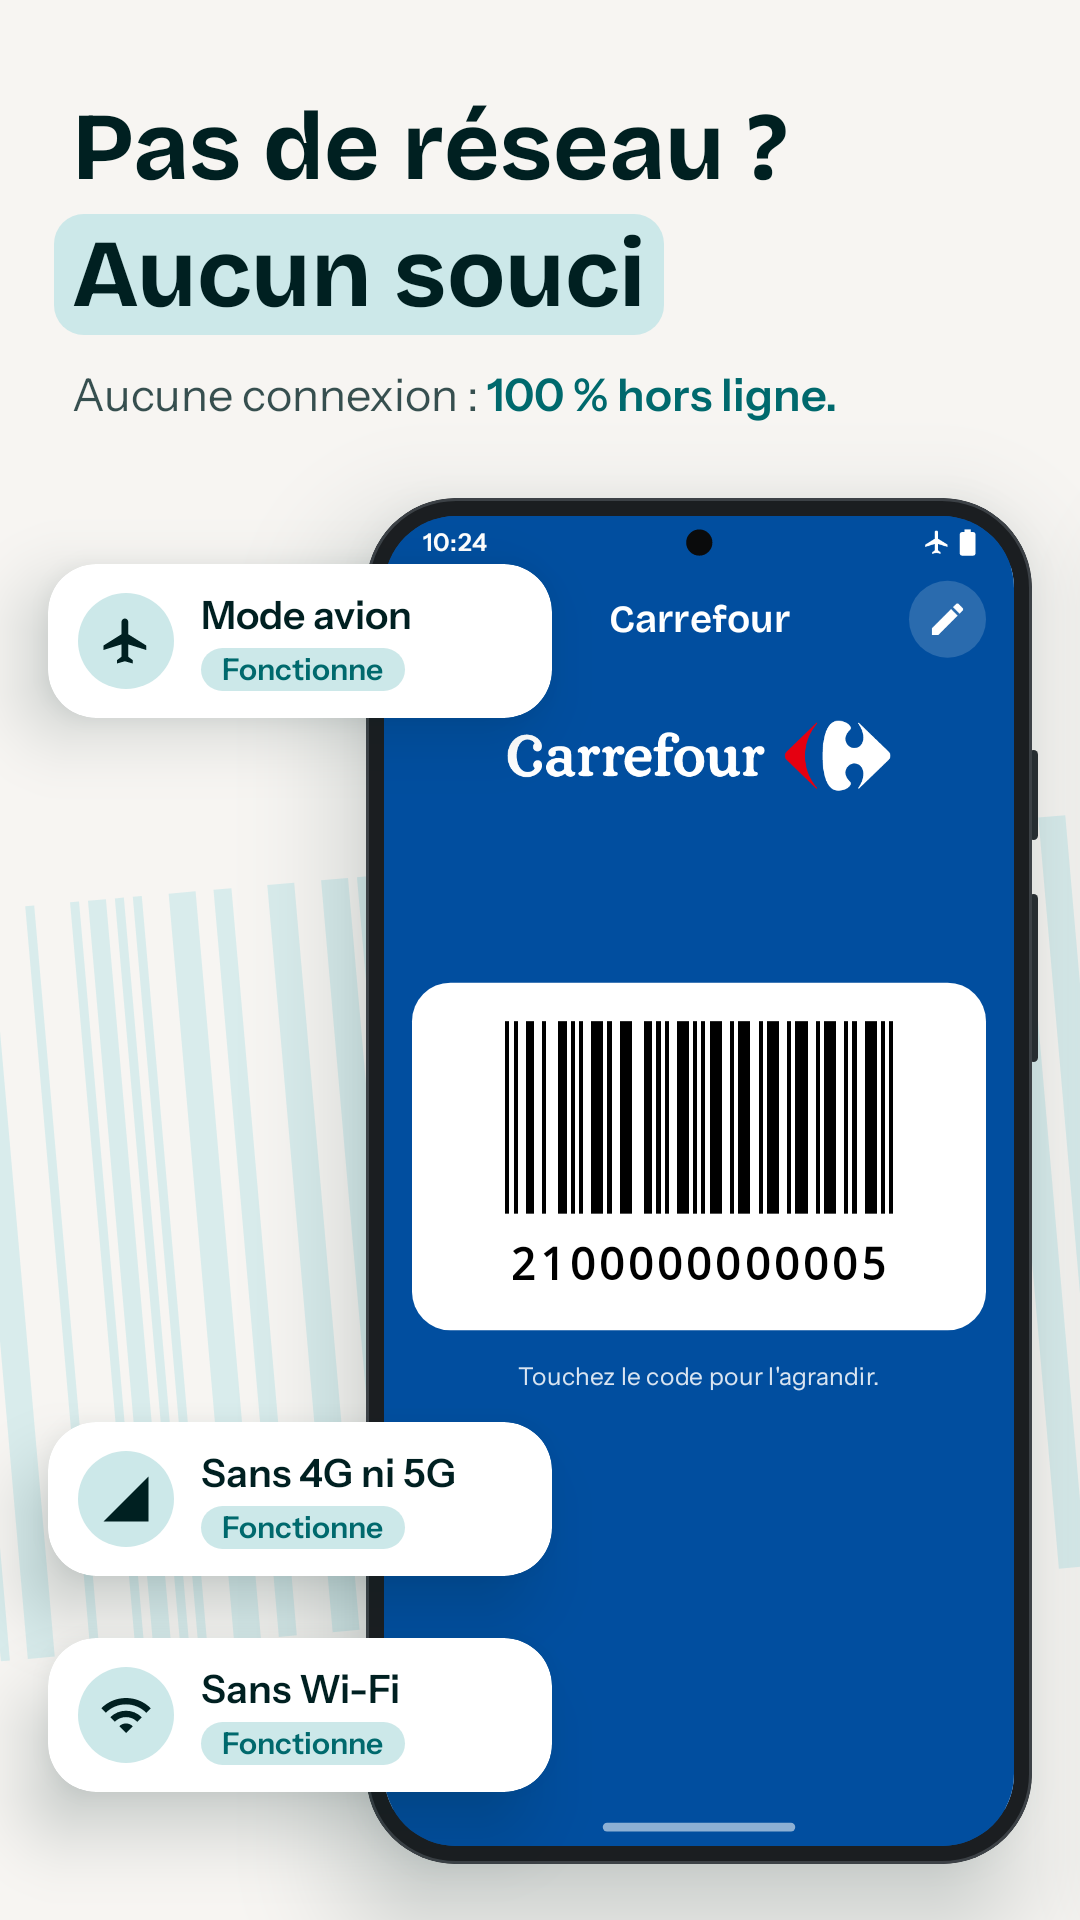
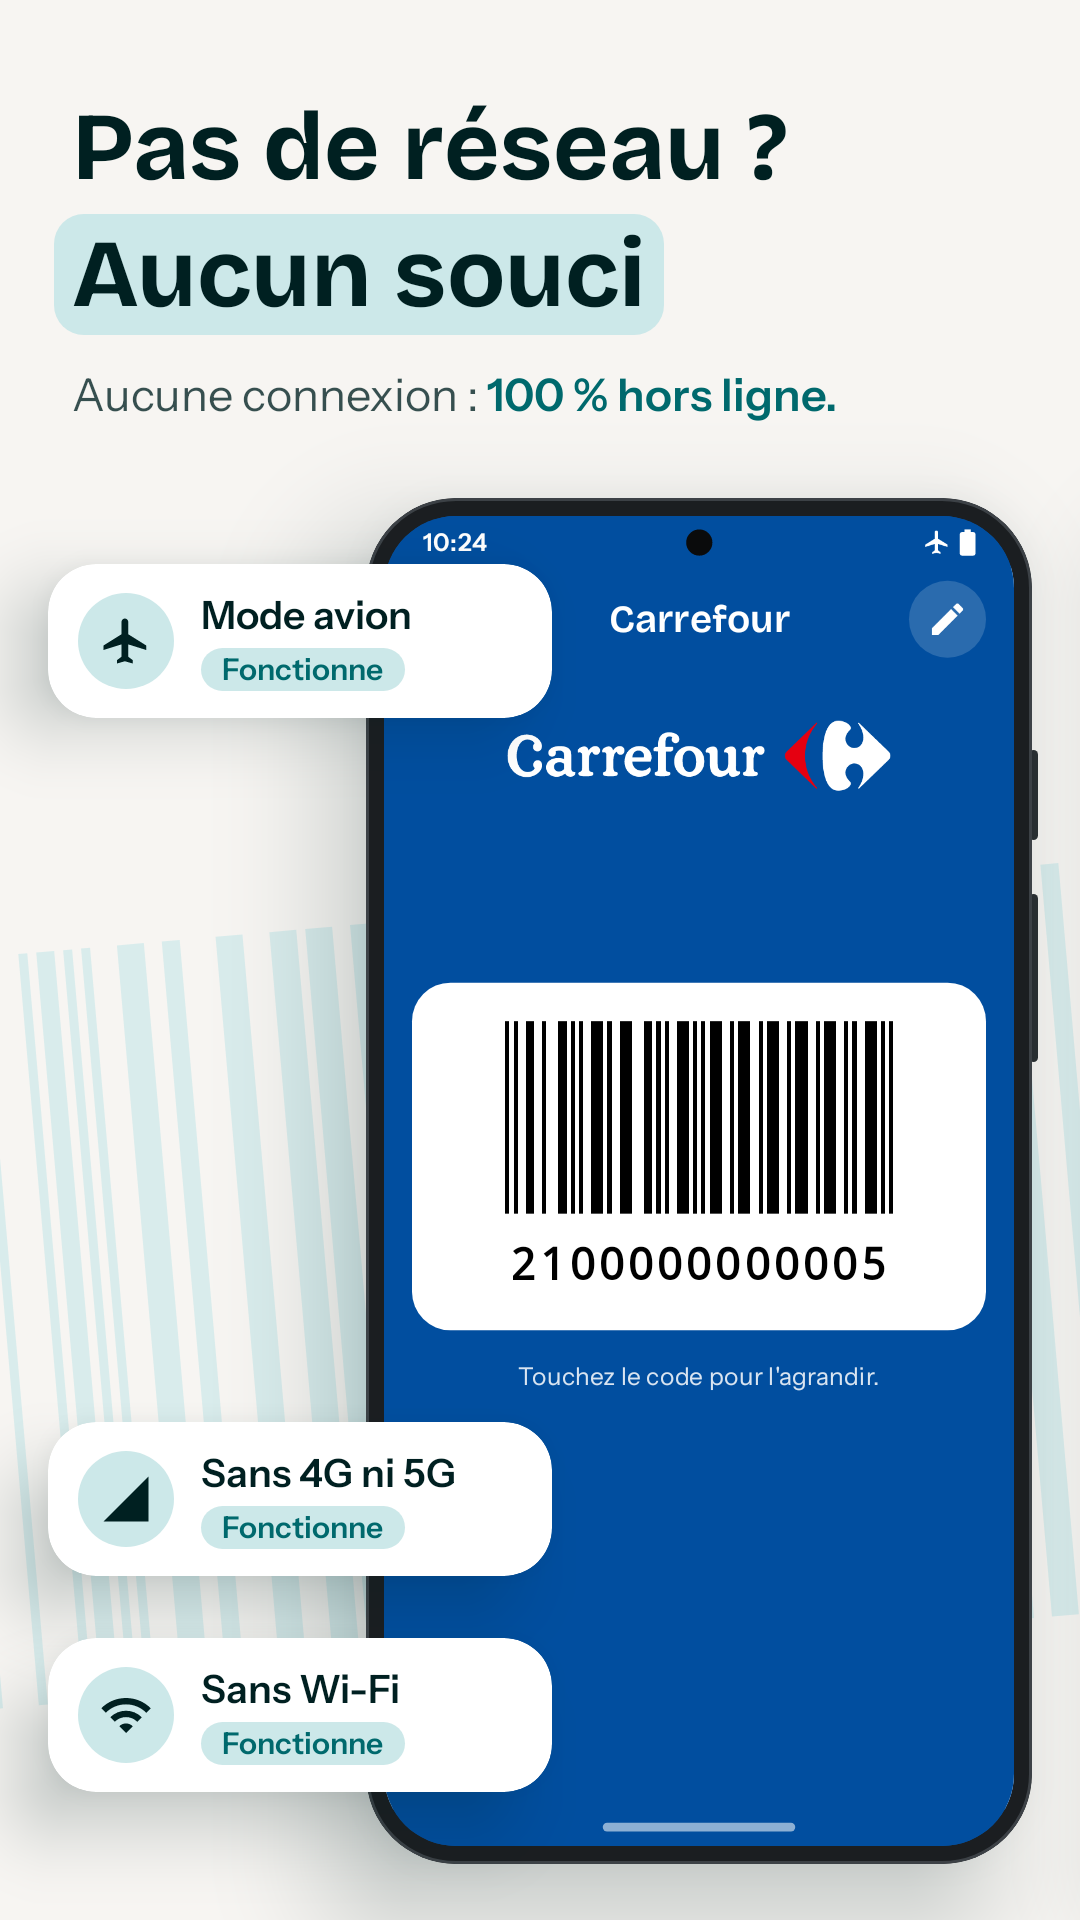
Fiche Play : cinq captures, une par écran (plein écran, carte, liste, ajout, réglages)
Plus de doublon clair/sombre : code QR en plein écran, carte en mode avion,
liste, formulaire d'ajout rempli après un scan, réglages défilés sur la
sauvegarde. « À propos » ne parle plus des cartes « du foyer ».

Changed region(s): [[0.0, 0.4375, 0.3361, 0.7812], [0.9472, 0.4062, 1.0, 0.8438], [0.0, 0.8125, 0.3056, 0.9062]]

diff --git a/app/src/test/kotlin/com/monselio/fidcards/ui/VisuelsPlayStore.kt b/app/src/test/kotlin/com/monselio/fidcards/ui/VisuelsPlayStore.kt
@@ -3,6 +3,16 @@ package com.monselio.fidcards.ui
 import android.graphics.Bitmap
 import android.graphics.BitmapFactory
 import android.graphics.Canvas
+import androidx.compose.ui.semantics.SemanticsActions
+import androidx.compose.ui.test.hasScrollAction
+import androidx.compose.ui.test.performSemanticsAction
+import androidx.compose.ui.test.hasSetTextAction
+import androidx.compose.ui.test.performTextInput
+import androidx.compose.material.icons.filled.ShoppingCart
+import androidx.compose.ui.test.hasClickAction
+import androidx.compose.ui.test.performClick
+import com.monselio.fidcards.ui.edit.EditCardScreen
+import com.monselio.fidcards.ui.settings.SettingsScreen
 import androidx.compose.foundation.border
 import androidx.compose.foundation.layout.fillMaxWidth
 import androidx.compose.foundation.layout.height
@@ -132,8 +142,9 @@ class VisuelsPlayStore {
                 repository.insert(
                     Card(
                         name = brand.name,
-                        barcodeValue = DebugSeed.ean13("2" + (10000000000 + i * 7919L)),
-                        barcodeFormat = BarcodeFormat.EAN_13,
+                        // Decathlon en QR : un code carré reste lisible en plein écran sans pivoter.
+                        barcodeValue = if (id == "decathlon") "2090001234567" else DebugSeed.ean13("2" + (10000000000 + i * 7919L)),
+                        barcodeFormat = if (id == "decathlon") BarcodeFormat.QR_CODE else BarcodeFormat.EAN_13,
                         brandId = brand.id,
                         createdAt = 0,
                         score = (ids.size - i).toDouble(),
@@ -154,12 +165,13 @@ class VisuelsPlayStore {
     }
 
     /**
-     * Captures de la fiche en panorama : une seule image de 4 × 360 dp (4320 × 1920 px),
+     * Captures de la fiche en panorama : une seule image de 5 × 360 dp (5400 × 1920 px),
      * fond continu (seul le code-barres en filigrane passe d'une capture à l'autre), découpée en
-     * quatre captures 1080 × 1920 : chacune contient entière son titre, son téléphone et ses encarts.
+     * cinq captures 1080 × 1920, une par écran de l'app : chacune contient entière son titre,
+     * son téléphone et ses encarts.
      */
     @Test
-    @Config(qualifiers = "w1440dp-h640dp-xxhdpi")
+    @Config(qualifiers = "w1800dp-h640dp-xxhdpi")
     fun captures_panorama() {
         val parId = runBlocking { app.container.cardRepository.getAll() }.associateBy { it.brandId }
         compose.setContent {
@@ -169,6 +181,40 @@ class VisuelsPlayStore {
                     Diapositive(d, parId, Modifier.offset(x = (i * 360).dp).size(360.dp, 640.dp))
                 }
             }
+        }
+        // Plein écran : toucher le cartouche du code, comme l'utilisateur (le réglage
+        // d'agrandissement automatique vaudrait pour toutes les captures à la fois).
+        compose.waitForIdle()
+        DIAPOS.forEachIndexed { i, d ->
+            if (d.ecran != Ecran.PLEIN_ECRAN) return@forEachIndexed
+            val noeuds = compose.onAllNodes(hasClickAction())
+            val liste = noeuds.fetchSemanticsNodes()
+            val largeurDiapo = 360 * app.resources.displayMetrics.density
+            val cartouche = liste.indices
+                .filter { liste[it].boundsInRoot.left >= i * largeurDiapo && liste[it].boundsInRoot.right <= (i + 1) * largeurDiapo }
+                .maxBy { liste[it].boundsInRoot.width }
+            noeuds[cartouche].performClick()
+        }
+        // Formulaire : l'enseigne saisie, comme après le choix dans l'autocomplétion.
+        DIAPOS.indexOfFirst { it.ecran == Ecran.AJOUT }.let { i ->
+            val champs = compose.onAllNodes(hasSetTextAction())
+            val liste = champs.fetchSemanticsNodes()
+            val largeurDiapo = 360 * app.resources.displayMetrics.density
+            val nom = liste.indices
+                .filter { liste[it].boundsInRoot.left >= i * largeurDiapo && liste[it].boundsInRoot.right <= (i + 1) * largeurDiapo }
+                .minBy { liste[it].boundsInRoot.top }
+            champs[nom].performTextInput("Sephora")
+        }
+        // Réglages : la section Sauvegarde entière à l'écran.
+        // (performScrollTo ne défile pas : l'écran réduit par graphicsLayer paraît déjà visible.)
+        compose.onAllNodes(hasScrollAction()).let { defilables ->
+            val i = DIAPOS.indexOfFirst { it.ecran == Ecran.REGLAGES }
+            val largeurDiapo = 360 * app.resources.displayMetrics.density
+            val liste = defilables.fetchSemanticsNodes()
+            val reglages = liste.indices.single { liste[it].boundsInRoot.left >= i * largeurDiapo }
+            // Tout en bas, puis remonter d'« À propos » : la version du build debug reste hors champ.
+            defilables[reglages].performSemanticsAction(SemanticsActions.ScrollBy) { it(0f, 2000f) }
+            defilables[reglages].performSemanticsAction(SemanticsActions.ScrollBy) { it(0f, -480f) }
         }
         val panorama = File(dir, "panorama.png")
         capturer(panorama.nameWithoutExtension)
@@ -239,8 +285,7 @@ class VisuelsPlayStore {
             Telephone(d, parId, Modifier.offset(x = xTelephone.dp, y = HAUT_TELEPHONE.dp))
             val xEncarts = if (d.telephoneAGauche) 360 - MARGE - LARGEUR_ENCART else MARGE
             // Sur l'écran carte, les encarts laissent le code-barres dégagé.
-            val ys = if (d.carte == null) listOf(232, 312, 392) else listOf(188, 474, 546)
-            d.encarts.zip(ys).forEach { (e, y) -> Encart(e, d.accent, Modifier.offset(x = xEncarts.dp, y = y.dp)) }
+            d.encarts.zip(d.ys).forEach { (e, y) -> Encart(e, d.accent, Modifier.offset(x = xEncarts.dp, y = y.dp)) }
         }
     }
 
@@ -284,18 +329,29 @@ class VisuelsPlayStore {
                                 transformOrigin = TransformOrigin(0f, 0f)
                             },
                     ) {
-                        FidCardsTheme(darkTheme = d.sombre) {
-                            val fond = d.carte?.let { Color(requireNotNull(catalog.byId(it)?.colorArgb)) }
-                                ?: MaterialTheme.colorScheme.background
+                        FidCardsTheme(darkTheme = false) {
+                            val fond = when (d.ecran) {
+                                Ecran.CARTE -> Color(requireNotNull(catalog.byId(requireNotNull(d.carte))?.colorArgb))
+                                Ecran.PLEIN_ECRAN -> Color.White
+                                else -> MaterialTheme.colorScheme.background
+                            }
                             val encre = if (fond.luminance() > 0.5f) Color(0xFF1F1E1B) else Color.White
                             // Les barres recouvrent l'écran d'1 dp : pas de liseré à la jonction.
                             Box(modifier = Modifier.fillMaxSize().background(fond)) {
                                 Box(modifier = Modifier.padding(top = 29.dp, bottom = 21.dp)) {
-                                    val id = d.carte?.let { parId.getValue(it).id }
-                                    if (id == null) {
-                                        HomeScreen(onCardClick = {}, onAddCard = {}, onOpenSettings = {})
-                                    } else {
-                                        CardDetailScreen(cardId = id, onBack = {}, onEdit = {})
+                                    when (d.ecran) {
+                                        Ecran.LISTE -> HomeScreen(onCardClick = {}, onAddCard = {}, onOpenSettings = {})
+                                        Ecran.CARTE, Ecran.PLEIN_ECRAN ->
+                                            CardDetailScreen(cardId = parId.getValue(d.carte).id, onBack = {}, onEdit = {})
+                                        // Formulaire tel qu'il s'ouvre après un scan.
+                                        Ecran.AJOUT -> EditCardScreen(
+                                            cardId = null,
+                                            scannedValue = DebugSeed.ean13("300000012345"),
+                                            scannedFormat = BarcodeFormat.EAN_13.name,
+                                            onDone = {},
+                                            onDeleted = {},
+                                        )
+                                        Ecran.REGLAGES -> SettingsScreen(onBack = {})
                                     }
                                 }
                                 BarreEtat(encre, fond, avion = d.modeAvion)
@@ -419,11 +475,15 @@ class VisuelsPlayStore {
         val sousTitreFort: String,
         val accent: Color,
         val telephoneAGauche: Boolean,
-        val sombre: Boolean,
+        val ecran: Ecran,
         val encarts: List<Encart>,
         val carte: String? = null,
         val modeAvion: Boolean = false,
+        /** Ordonnée de chaque encart, en dp : ils laissent dégagé l'essentiel de l'écran. */
+        val ys: List<Int> = listOf(232, 312, 392),
     )
+
+    private enum class Ecran { PLEIN_ECRAN, CARTE, LISTE, AJOUT, REGLAGES }
 
     private companion object {
         /** Écran de l'app dans le téléphone : 360 × 760 dp réels, réduits à 210 dp de large. */
@@ -450,6 +510,9 @@ class VisuelsPlayStore {
             "M12,7c-2.76,0 -5,2.24 -5,5s2.24,5 5,5 5,-2.24 5,-5 -2.24,-5 -5,-5zM2,13h2c0.55,0 1,-0.45 1,-1s-0.45,-1 -1,-1L2,11c-0.55,0 -1,0.45 -1,1s0.45,1 1,1zM20,13h2c0.55,0 1,-0.45 1,-1s-0.45,-1 -1,-1h-2c-0.55,0 -1,0.45 -1,1s0.45,1 1,1zM11,2v2c0,0.55 0.45,1 1,1s1,-0.45 1,-1L13,2c0,-0.55 -0.45,-1 -1,-1s-1,0.45 -1,1zM11,20v2c0,0.55 0.45,1 1,1s1,-0.45 1,-1v-2c0,-0.55 -0.45,-1 -1,-1 -0.55,0 -1,0.45 -1,1z",
         )
 
+        val PHOTO = vecteur(
+            "M12,12m-3.2,0a3.2,3.2 0,1 1,6.4 0a3.2,3.2 0,1 1,-6.4 0M9,2L7.17,4H4c-1.1,0 -2,0.9 -2,2v12c0,1.1 0.9,2 2,2h16c1.1,0 2,-0.9 2,-2V6c0,-1.1 -0.9,-2 -2,-2h-3.17L15,2H9zM12,17c-2.76,0 -5,-2.24 -5,-5s2.24,-5 5,-5 5,2.24 5,5 -2.24,5 -5,5z",
+        )
         val CODE = vecteur("M9.4,16.6L4.8,12l4.6,-4.6L8,6l-6,6 6,6 1.4,-1.4zM14.6,16.6l4.6,-4.6 -4.6,-4.6L16,6l6,6 -6,6 -1.4,-1.4z")
         val OEIL = vecteur(
             "M12,4.5C7,4.5 2.73,7.61 1,12c1.73,4.39 6,7.5 11,7.5s9.27,-3.11 11,-7.5c-1.73,-4.39 -6,-7.5 -11,-7.5zM12,17c-2.76,0 -5,-2.24 -5,-5s2.24,-5 5,-5 5,2.24 5,5 -2.24,5 -5,5zM12,9c-1.66,0 -3,1.34 -3,3s1.34,3 3,3 3,-1.34 3,-3 -1.34,-3 -3,-3z",
@@ -469,23 +532,25 @@ class VisuelsPlayStore {
 
         // Arguments vérifiables dans le code : aucune permission INTERNET, aucun SDK de pub
         // ni de mesure, aucun compte ni achat ; tri par récence d'usage ; luminosité forcée
-        // au maximum sur l'écran carte (CardDetailScreen) ; dépôt GPL-3.0.
+        // au maximum sur l'écran carte (CardDetailScreen) ; 12 formats ; catalogue de plus de
+        // 240 enseignes ; photos recto verso facultatives.
         val DIAPOS = listOf(
             Diapo(
-                "rapide", "Ouvrez, scannez,", "c'est réglé",
+                "plein-ecran", "Ouvrez, scannez,", "c'est réglé",
                 "La luminosité monte ", "toute seule.",
-                accent = md_theme_light_primaryContainer, telephoneAGauche = true, sombre = false,
+                accent = md_theme_light_primaryContainer, telephoneAGauche = true, ecran = Ecran.PLEIN_ECRAN, carte = "decathlon",
+                ys = listOf(196, 504, 570),
                 encarts = listOf(
-                    Encart(Icons.Filled.Star, "Tri automatique", "Selon l'usage"),
-                    Encart(Icons.Filled.Search, "Recherche", "Par enseigne"),
                     Encart(SOLEIL, "Luminosité", "Au maximum"),
+                    Encart(Icons.Filled.Search, "Code en grand", "D'un toucher"),
+                    Encart(Icons.Filled.Star, "12 formats", "EAN, QR, Aztec…"),
                 ),
             ),
             Diapo(
                 "hors-ligne", "Pas de réseau ?", "Aucun souci",
                 "Aucune connexion : ", "100 % hors ligne.",
-                accent = md_theme_light_secondaryContainer, telephoneAGauche = false, sombre = false, carte = "carrefour",
-                modeAvion = true,
+                accent = md_theme_light_secondaryContainer, telephoneAGauche = false, ecran = Ecran.CARTE, carte = "carrefour",
+                modeAvion = true, ys = listOf(188, 474, 546),
                 encarts = listOf(
                     Encart(AVION, "Mode avion", "Fonctionne"),
                     Encart(RESEAU, "Sans 4G ni 5G", "Fonctionne"),
@@ -495,7 +560,7 @@ class VisuelsPlayStore {
             Diapo(
                 "sans-pub", "Gratuite.", "Vraiment.",
                 "Ni pub, ni compte, ", "ni abonnement.",
-                accent = md_theme_light_primaryContainer, telephoneAGauche = true, sombre = true,
+                accent = md_theme_light_primaryContainer, telephoneAGauche = true, ecran = Ecran.LISTE,
                 encarts = listOf(
                     Encart(PUB, "Publicités", "Aucune", barre = true),
                     Encart(Icons.Filled.Person, "Inscription", "Inutile", barre = true),
@@ -503,9 +568,20 @@ class VisuelsPlayStore {
                 ),
             ),
             Diapo(
+                "ajout", "Nouvelle carte ?", "Scannez-la",
+                "Plus de 240 enseignes ", "reconnues.",
+                accent = md_theme_light_tertiaryContainer, telephoneAGauche = false, ecran = Ecran.AJOUT,
+                ys = listOf(438, 504, 570),
+                encarts = listOf(
+                    Encart(PHOTO, "Scan du code", "Appareil photo"),
+                    Encart(Icons.Filled.ShoppingCart, "Enseignes", "Couleur et logo"),
+                    Encart(PHOTO, "Photos", "Recto et verso"),
+                ),
+            ),
+            Diapo(
                 "privee", "Vos cartes restent", "chez vous",
                 "Aucun serveur, ", "aucun intermédiaire.",
-                accent = md_theme_light_tertiaryContainer, telephoneAGauche = false, sombre = true, carte = "lafoirfouille",
+                accent = md_theme_light_secondaryContainer, telephoneAGauche = true, ecran = Ecran.REGLAGES,
                 encarts = listOf(
                     Encart(Icons.Filled.Lock, "Accès Internet", "Non demandé"),
                     Encart(OEIL, "Traceurs", "Aucun", barre = true),

diff --git a/docs/play-store/FICHE.md b/docs/play-store/FICHE.md
@@ -2,15 +2,16 @@
 
 Textes et réponses à reporter dans la Play Console. Visuels dans ce dossier, rendus
 depuis l'UI réelle par le test `VisuelsPlayStore` (`./gradlew testDebugUnitTest --tests
-'*VisuelsPlayStore*' -Pcaptures`, sortie dans `app/build/captures/play/`). Les quatre
-captures forment un **panorama** : une seule image découpée, fond continu et cartes à
-cheval sur les jointures ; les téléverser dans l'ordre 1 → 4.
+'*VisuelsPlayStore*' -Pcaptures`, sortie dans `app/build/captures/play/`). Les cinq
+captures montrent chacune un écran différent (plein écran, carte, liste, ajout, réglages),
+découpées dans un même **panorama** : seul le code-barres du fond passe d'une capture à
+l'autre ; les téléverser dans l'ordre 1 → 5.
 
 | Élément | Fichier | Format exigé |
 |---|---|---|
 | Icône de l'application | `icone-512.png` | 512 × 512 PNG |
 | Image de présentation | `banniere-1024x500.png` | 1024 × 500 |
-| Captures téléphone (panorama, dans l'ordre) | `capture-1-rapide.png`, `capture-2-hors-ligne.png`, `capture-3-sans-pub.png`, `capture-4-privee.png` | 1080 × 1920 (9:16) |
+| Captures téléphone (panorama, dans l'ordre) | `capture-1-plein-ecran.png`, `capture-2-hors-ligne.png`, `capture-3-sans-pub.png`, `capture-4-ajout.png`, `capture-5-privee.png` | 1080 × 1920 (9:16) |
 
 ## Fiche principale (français)
 
